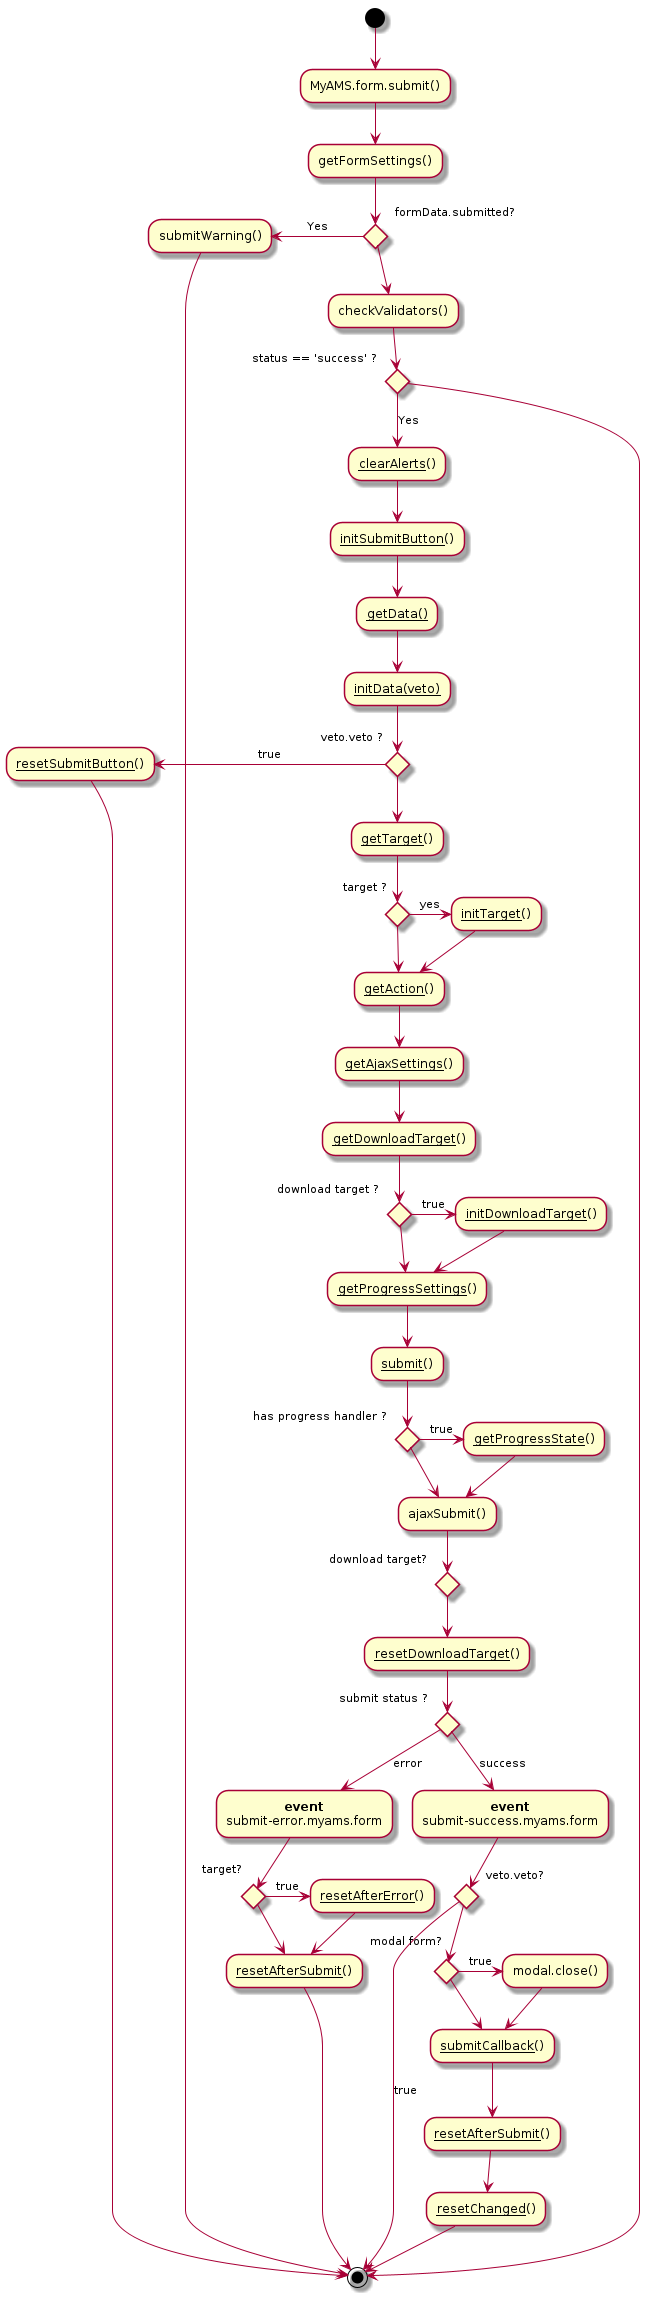
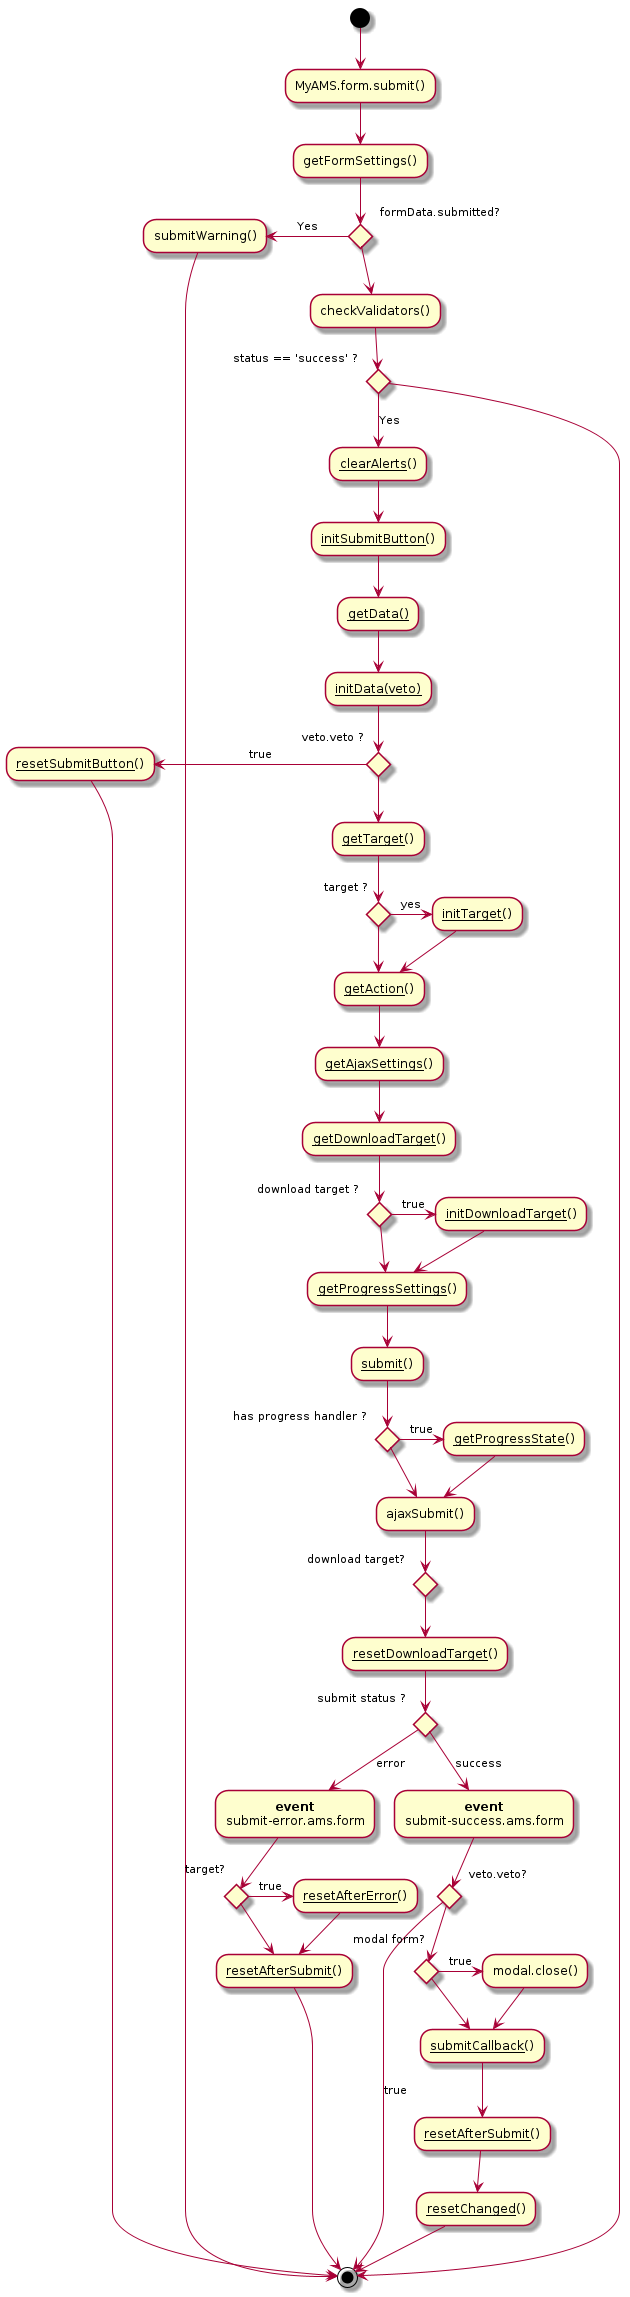
Use uniform events names

diff --git a/src/js/mod-form.js b/src/js/mod-form.js
@@ -501,7 +501,7 @@ function initFormData(form, settings, button, postData, options, veto) {
 	if (callback) {
 		$.extend(postData, callback(form, settings, button, postData, options, veto));
 	}
-	form.trigger('init-data.myams.form', [postData, veto]);
+	form.trigger('init-data.ams.form', [postData, veto]);
 }
 
 
@@ -555,7 +555,7 @@ function getFormAjaxSettings(form, settings, button, postData, action, target) {
 		dataType: settings.datatype,
 		beforeSerialize: () => {
 			const veto = { veto: false };
-			form.trigger('before-serialize.myams.form', [veto]);
+			form.trigger('before-serialize.ams.form', [veto]);
 			if (veto.veto) {
 				return false;
 			}
@@ -565,7 +565,7 @@ function getFormAjaxSettings(form, settings, button, postData, action, target) {
 		},
 		beforeSubmit: (data, form) => {
 			const veto = { veto: false };
-			form.trigger('before-submit.myams.form', [data, veto]);
+			form.trigger('before-submit.ams.form', [data, veto]);
 			if (veto.veto) {
 				return false;
 			}
@@ -581,11 +581,11 @@ function getFormAjaxSettings(form, settings, button, postData, action, target) {
 				`linear-gradient(to right, white -45%, green ${completed}%, red ${completed}%, red)`);
 		},
 		complete: (xhr) => {
-			form.trigger('complete.myams.form', [xhr]);
+			form.trigger('complete.ams.form', [xhr]);
 		},
 		success: (result, status, request, form) => {
 			const veto = { veto: false };
-			form.trigger('submit-success.myams.form', [result, status, request, veto]);
+			form.trigger('submit-success.ams.form', [result, status, request, veto]);
 			if (veto.veto) {
 				return;
 			}
@@ -601,7 +601,7 @@ function getFormAjaxSettings(form, settings, button, postData, action, target) {
 			}
 		},
 		error: (request, status, error, form) => {
-			form.trigger('submit-error.myams.form', [request, status, error, target]);
+			form.trigger('submit-error.ams.form', [request, status, error, target]);
 			if (target) {
 				settings.resetAfterError(form, settings, button, target);
 			}
@@ -726,7 +726,7 @@ function formSubmitCallback(form, settings, target, result, status, request) {
 		MyAMS.core.executeFunctionByName(callback, document, form, settings, options,
 			result, status, request);
 	}
-	form.trigger('after-submit.myams.form', [result]);
+	form.trigger('after-submit.ams.form', [result]);
 }
 
 
@@ -742,7 +742,7 @@ function resetFormAfterSubmit(form, settings, button) {
 		settings.resetSubmitButton(form, settings, button);
 		form.data('submitted', false);
 		form.removeData('ams-submit-button');
-		form.trigger('after-reset.myams.form');
+		form.trigger('after-reset.ams.form');
 	}
 }
 

diff --git a/html/mod-form-events.html b/html/mod-form-events.html
@@ -3,40 +3,40 @@
 	<p>Several events are triggered during form submission:</p>
 	<ul>
 		<li>
-			<p><code>init-data.myams.form</code>: this event is triggered at the end of form's
+			<p><code>init-data.ams.form</code>: this event is triggered at the end of form's
 			data initialization; if receives actual POST data and a veto object as arguments;
 			if veto's <code>veto</code> attribute is set to <code>true</code>, the submit button
 			is reset and the submit process is cancelled.</p>
 		</li>
 		<li>
-			<p><code>before-serialized.myams.form</code>: this event is triggered before form
+			<p><code>before-serialized.ams.form</code>: this event is triggered before form
 			fields serialization; it received a veto object argument: if it's <code>veto</code>
 			attribute is set to <code>true</code>, the submit process is cancelled.</p>
 		</li>
 		<li>
-			<p><code>before-submit.myams.form</code>: this event is triggered before form submit;
+			<p><code>before-submit.ams.form</code>: this event is triggered before form submit;
 			current data is added as event argument, with a veto object: if it's <code>veto</code>
 			attribute is set to <code>true</code>, the submit process is cancelled.</p>
 		</li>
 		<li>
-			<p><code>complete.myams.form</code>: this event is triggered when submission is
+			<p><code>complete.ams.form</code>: this event is triggered when submission is
 			completed, with a success or an error status.</p>
 		</li>
 		<li>
-			<p><code>submit-success.myams.form</code>: this event is triggered on successfull
+			<p><code>submit-success.ams.form</code>: this event is triggered on successfull
 			commit. It's arguments are the submit result, the request status, the request and a
 			veto object; if <code>veto.veto</code> is set to <code>true</code>, the default
 			MyAMS callbacks will not be called.</p>
 		</li>
 		<li>
-			<p><code>submit-error.myams.form</code>: this event is triggered on failed commit.</p>
+			<p><code>submit-error.ams.form</code>: this event is triggered on failed commit.</p>
 		</li>
 		<li>
-			<p><code>after-submit.myams.form</code>: this event is triggered when the form submit
+			<p><code>after-submit.ams.form</code>: this event is triggered when the form submit
 			callback has been called.</p>
 		</li>
 		<li>
-			<p><code>after-reset.myams.form</code>: this event is triggered when a non modal form
+			<p><code>after-reset.ams.form</code>: this event is triggered when a non modal form
 			has been submitted, and it's state reset.</p>
 		</li>
 	</ul>

diff --git a/html/mod-form-options.html b/html/mod-form-options.html
@@ -137,7 +137,7 @@
 				If the <code>veto</code> object is updated with a <code>true</code> value in his
 				<code>veto</code> attribute, the submit button is reset and the submit operation
 				is cancelled.
-				After initialization is done, an <code>init-data.myams.form</code> event is
+				After initialization is done, an <code>init-data.ams.form</code> event is
 				triggered on the form, with <code>postData</code> and <code>veto</code> arguments.
 			</td>
 		</tr>
@@ -212,16 +212,16 @@
 				can cancel the submission by setting it's <code>veto</code> attribute to
 				<code>false</code>.
 				<ul>
-					<li><code>before-serialize.myams.form(veto)</code></li>
-					<li><code>before-submit.myams.form(data, veto)</code></li>
-					<li><code>complete.myams.form(xhr)</code></li>
+					<li><code>before-serialize.ams.form(veto)</code></li>
+					<li><code>before-submit.ams.form(data, veto)</code></li>
+					<li><code>complete.ams.form(xhr)</code></li>
 					<li>
-						<code>submit-success.myams.form(result, status, request, veto)</code><br />
+						<code>submit-success.ams.form(result, status, request, veto)</code><br />
 						The <code>veto</code> argument of this event is not used to cancel the
 						submission as it is already done, but to cancel default MyAMS behaviour
 						to handle it's result.
 					</li>
-					<li><code>submit-error.myams.form(request, status, error, target)</code></li>
+					<li><code>submit-error.ams.form(request, status, error, target)</code></li>
 				</ul>
 			</td>
 		</tr>
@@ -377,7 +377,7 @@
 				response using a dedicated <code>X-AMS-Callback</code> HTTP header, and another
 				<code>X-AMS-Callback-Options</code> header to define callback options in a
 				serialized JSON object string.<br />
-				After function call, a <code>after-submit.myams.form</code> event is triggered
+				After function call, a <code>after-submit.ams.form</code> event is triggered
 				on the form, with <code>result</code> as argument.
 			</td>
 		</tr>
@@ -399,7 +399,7 @@
 				This function is called after submit to reset form's state. The submit button
 				is reset, and form's <code>submitted</code> data attribute is reset to
 				<code>false</code> so that the form can be submitted again.<br/>
-				An <code>after-reset.myams.form</code> event is also triggered.
+				An <code>after-reset.ams.form</code> event is also triggered.
 			</td>
 		</tr>
 		<tr>

diff --git a/src/js/mod-plugins.js b/src/js/mod-plugins.js
@@ -94,7 +94,7 @@ function checker(element) {
 					input = $(evt.target),
 					checked = input.is(':checked'),
 					veto = { veto: false };
-				legend.trigger('before-switch.myams.checker', [legend, veto]);
+				legend.trigger('before-switch.ams.checker', [legend, veto]);
 				if (veto.veto) {
 					input.prop('checked', !checked);
 					return;
@@ -107,11 +107,11 @@ function checker(element) {
 						if (checked) {
 							fieldset.removeClass('switched');
 							prefix.val(checkedValue);
-							legend.trigger('opened.myams.checker', [legend]);
+							legend.trigger('opened.ams.checker', [legend]);
 						} else {
 							fieldset.addClass('switched');
 							prefix.val(uncheckedValue);
-							legend.trigger('closed.myams.checker', [legend]);
+							legend.trigger('closed.ams.checker', [legend]);
 						}
 					} else {
 						fieldset.prop('disabled', !checked);
@@ -330,14 +330,14 @@ function switcher(element) {
 			legend.on('click', (evt) => {
 				evt.preventDefault();
 				const veto = {};
-				legend.trigger('before-switch.myams.switcher', [legend, veto]);
+				legend.trigger('before-switch.ams.switcher', [legend, veto]);
 				if (veto.veto) {
 					return;
 				}
 				if (fieldset.hasClass('switched')) {
 					fieldset.removeClass('switched');
 					MyAMS.core.switchIcon($('i', legend), plusClass, minusClass);
-					legend.trigger('opened.myams.switcher', [legend]);
+					legend.trigger('opened.ams.switcher', [legend]);
 					const id = legend.attr('id');
 					if (id) {
 						$(`legend.swicther[data-ams-switcher-sync="${id}"]`, fieldset).each((idx, elt) => {
@@ -350,7 +350,7 @@ function switcher(element) {
 				} else {
 					fieldset.addClass('switched');
 					MyAMS.core.switchIcon($('i', legend), minusClass, plusClass);
-					legend.trigger('closed.myams.switcher', [legend]);
+					legend.trigger('closed.ams.switcher', [legend]);
 				}
 			});
 			if (data.amsSwitcherState !== 'open') {

diff --git a/src/js/ext-base.js b/src/js/ext-base.js
@@ -282,15 +282,17 @@ export function initContent(element=null) {
 
 	const modules = getModules(element);
 	return MyAMS.require(...modules).then(() => {
-		element.trigger('before-init.myams.content');
-		MyAMS.registry.initElement(element).then(() => {
-			for (const moduleName of MyAMS.config.modules) {
-				executeFunctionByName(`MyAMS.${moduleName}.initElement`, document, element);
-			}
-		}).then(() => {
-			MyAMS.registry.run(element);
-			element.trigger('after-init.myams.content');
-		});
+		element.trigger('before-init.ams.content');
+		if (MyAMS.config.useRegistry) {
+			MyAMS.registry.initElement(element).then(() => {
+				for (const moduleName of MyAMS.config.modules) {
+					executeFunctionByName(`MyAMS.${moduleName}.initElement`, document, element);
+				}
+			}).then(() => {
+				MyAMS.registry.run(element);
+				element.trigger('after-init.ams.content');
+			});
+		}
 	});
 }
 
@@ -613,6 +615,7 @@ const
 		initPage: 'MyAMS.core.initPage',
 		initContent: 'MyAMS.core.initContent',
 		clearContent: 'MyAMS.core.clearContent',
+		useRegistry: true,
 		alertsContainerClass: 'toast-wrapper',
 		safeMethods: ['GET', 'HEAD', 'OPTIONS', 'TRACE'],
 		csrfCookieName: 'csrf_token',

diff --git a/src/js/mod-skin.js b/src/js/mod-skin.js
@@ -169,7 +169,7 @@ export const skin = {
 				const
 					settings = $.extend({}, defaults, options),
 					veto = { veto: false };
-				target.trigger('before-load.myams.content', [settings, veto]);
+				target.trigger('before-load.ams.content', [settings, veto]);
 				if (veto.veto) {
 					return;
 				}
@@ -204,7 +204,7 @@ export const skin = {
 									MyAMS.core.executeFunctionByName(MyAMS.config.initContent,
 										window, target).then(() => {
 										MyAMS.form && MyAMS.form.setFocus(target);
-										target.trigger('after-load.myams.content');
+										target.trigger('after-load.ams.content');
 										resolve(result, status, xhr);
 									})
 							}

diff --git a/html/search.html b/html/search.html
@@ -14,7 +14,7 @@
 	       data-ams-click-dismiss="false"&gt;
 	    &lt;form class="ams-form" method="post" action="#search.html"
 	          target="#content" data-async
-	          data-ams-events-handlers='{"submit-success.myams.form": "MyAMS.helpers.hideDropdown"}'&gt;
+	          data-ams-events-handlers='{"submit-success.ams.form": "MyAMS.helpers.hideDropdown"}'&gt;
 	      &lt;div class="input-group form-widget m-0"&gt;
 	        &lt;input type="text" class="form-control" name="query"
 	               placeholder="Search..."/&gt;

diff --git a/html/index.html b/html/index.html
@@ -90,7 +90,7 @@
 						 data-ams-click-dismiss="false">
 						<form class="ams-form" method="post" action="#search.html"
 							  target="#content" data-async
-							  data-ams-events-handlers='{"submit-success.myams.form": "MyAMS.helpers.hideDropdown"}'>
+							  data-ams-events-handlers='{"submit-success.ams.form": "MyAMS.helpers.hideDropdown"}'>
 							<div class="input-group form-widget m-0">
 								<input type="text" class="form-control" name="query"
 									   required placeholder="Search..." />

diff --git a/html/index-core.html b/html/index-core.html
@@ -95,7 +95,7 @@
 						 data-ams-click-dismiss="false">
 						<form class="ams-form" method="post"
 							  action="#search.html" target="#content" data-async
-							  data-ams-events-handlers='{"submit-success.myams.form": "MyAMS.helpers.hideDropdown"}'>
+							  data-ams-events-handlers='{"submit-success.ams.form": "MyAMS.helpers.hideDropdown"}'>
 							<div class="input-group form-widget m-0">
 								<input type="text" class="form-control" name="query"
 									   required placeholder="Search..."/>

diff --git a/html/index-mini.html b/html/index-mini.html
@@ -93,7 +93,7 @@
 						 data-ams-click-dismiss="false">
 						<form class="ams-form" method="post" action="#search.html"
 							  target="#content" data-async
-							  data-ams-events-handlers='{"submit-success.myams.form": "MyAMS.helpers.hideDropdown"}'>
+							  data-ams-events-handlers='{"submit-success.ams.form": "MyAMS.helpers.hideDropdown"}'>
 							<div class="input-group form-widget m-0">
 								<input type="text" class="form-control" name="query"
 									   required placeholder="Search..."/>
